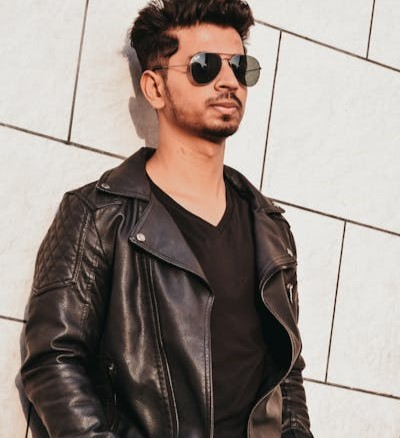
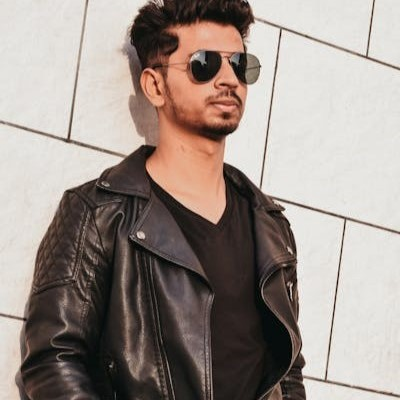
WS-10 -Elrendezés javítása, képméret módosítása

diff --git a/index.html b/index.html
@@ -21,8 +21,8 @@
             height: fit-content;
             display: flex;
             flex-direction: row;
-            margin-left: 150px;
-            margin-right: 150px;
+            margin-left: 10%;
+            margin-right: 10%;
         }
 
         .footerelem {
@@ -82,7 +82,7 @@
         }
 
         #szortolas {
-            width: 32%;
+            width: 35%;
         }
 
         #kategoriak {
